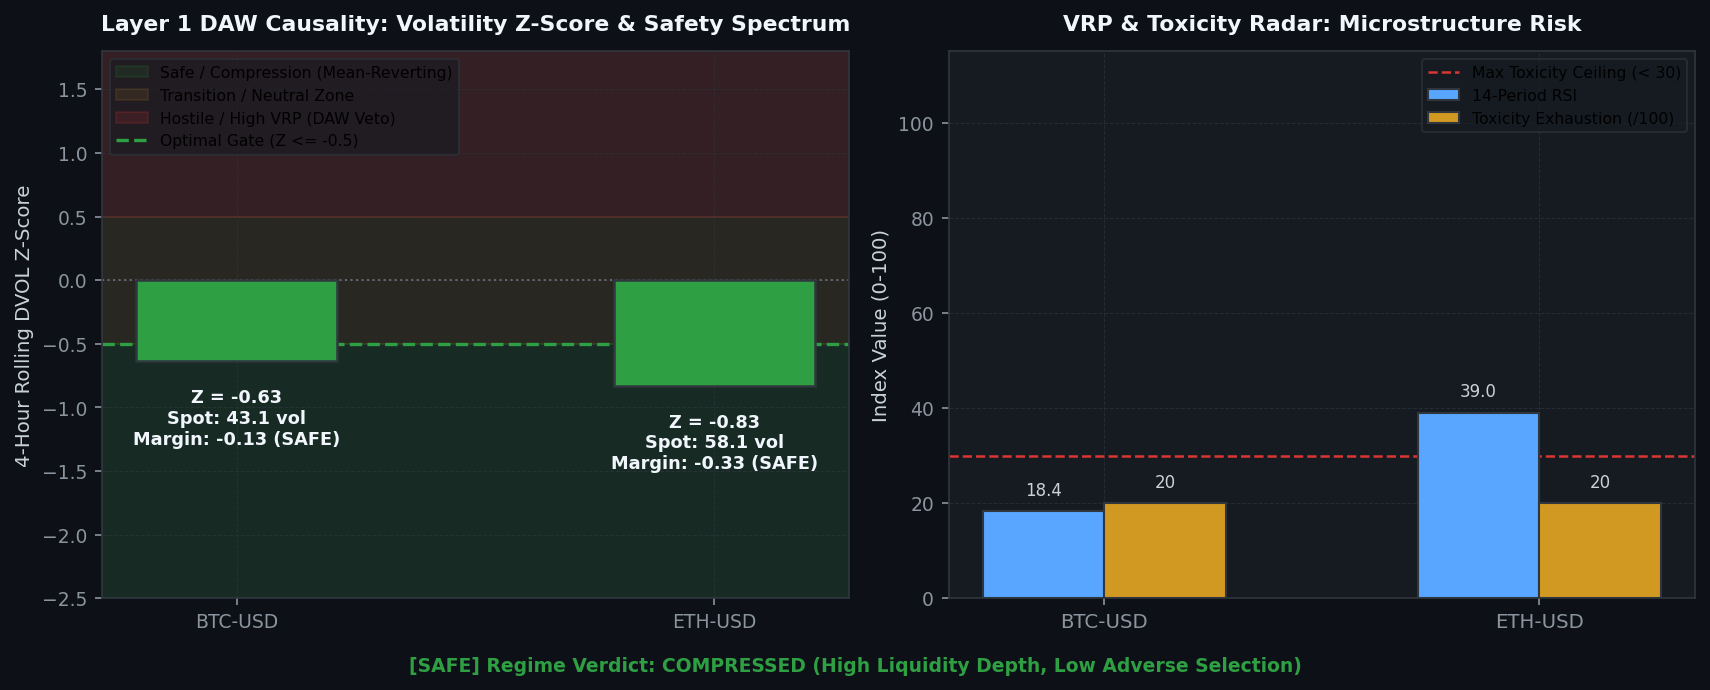
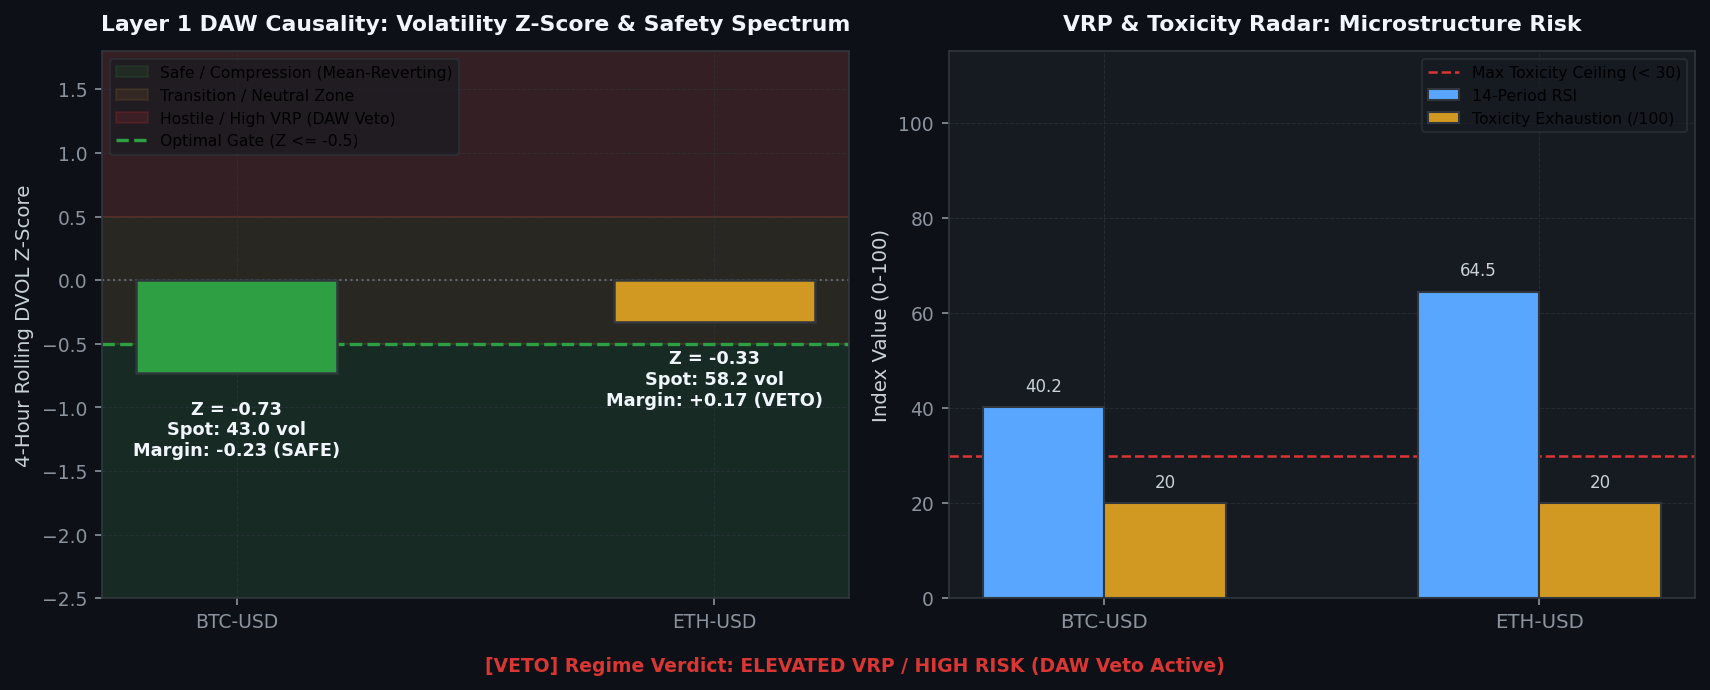
[coinbase] Hourly Status & Visual Intelligence Update: 2026-08-25 17:57:39

diff --git a/coinbase/data/hourly_status_report.md b/coinbase/data/hourly_status_report.md
@@ -3,7 +3,7 @@ layout: default
 ---
 
 # 🛡 Unified Trading System Hourly Status & Visual Intelligence
-> **Report Generated**: `2026-08-25 05:39:13 PM PDT (2026-08-26 00:39:13 UTC)`  
+> **Report Generated**: `2026-08-25 05:57:22 PM PDT (2026-08-26 00:57:22 UTC)`  
 > **System Health**: **🟡 DEGRADED / RESTRICTED** | **Win Rate**: `0.0%` | **Completed Trades**: `0`
 
 
@@ -15,13 +15,13 @@ Real-time Deribit implied volatility (DVOL) proxy tracking against mathematicall
 
 | Symbol | Proxy Oracle | Live Z-Score | Optimal Limit (YSP) | Safety Margin | Live VRP | Optimal VRP (YSP) | DAW Safety Verdict |
 | :--- | :--- | :--- | :--- | :--- | :--- | :--- | :--- |
-| `AVAX-USD` | DVOL_BTC | **-0.60** | **-0.50** | **-0.10** | **-4.85** | 5.0 | 🟢 SAFE |
-| `ETH-USD` | DVOL_ETH | **-0.79** | **-0.50** | **-0.29** | **+10.09** | 5.0 | 🔴 DAW VETOED |
-| `ADA-USD` | DVOL_BTC | **-0.60** | **-0.50** | **-0.10** | **-4.86** | 5.0 | 🟢 SAFE |
-| `DOGE-USD` | DVOL_BTC | **-0.60** | **-0.50** | **-0.10** | **-4.86** | 5.0 | 🟢 SAFE |
-| `BTC-USD` | DVOL_BTC | **-0.60** | **-0.50** | **-0.10** | **-4.85** | 5.0 | 🟢 SAFE |
-| `LINK-USD` | DVOL_BTC | **-0.60** | **-0.50** | **-0.10** | **-4.85** | 5.0 | 🟢 SAFE |
-| `SOL-USD` | DVOL_BTC | **-0.60** | **-0.50** | **-0.10** | **-4.86** | 5.0 | 🟢 SAFE |
+| `AVAX-USD` | DVOL_BTC | **-0.73** | **-0.50** | **-0.23** | **-4.85** | 5.0 | 🟢 SAFE |
+| `ETH-USD` | DVOL_ETH | **-0.33** | **-0.50** | **+0.17** | **+10.11** | 5.0 | 🔴 DAW VETOED |
+| `ADA-USD` | DVOL_BTC | **-0.73** | **-0.50** | **-0.23** | **-4.86** | 5.0 | 🟢 SAFE |
+| `DOGE-USD` | DVOL_BTC | **-0.73** | **-0.50** | **-0.23** | **-4.86** | 5.0 | 🟢 SAFE |
+| `BTC-USD` | DVOL_BTC | **-0.73** | **-0.50** | **-0.23** | **-4.85** | 5.0 | 🟢 SAFE |
+| `LINK-USD` | DVOL_BTC | **-0.73** | **-0.50** | **-0.23** | **-4.85** | 5.0 | 🟢 SAFE |
+| `SOL-USD` | DVOL_BTC | **-0.73** | **-0.50** | **-0.23** | **-4.86** | 5.0 | 🟢 SAFE |
 
 
 
@@ -37,16 +37,16 @@ We hereby certify that the mission-critical algorithmic data assets uploaded by 
 
 | Status | Data Asset | Freshness / State | Details / Timestamp |
 | :---: | :--- | :--- | :--- |
-| ✅ | **Go-List JSON** | Fresh (8.62h old) | 08-25 09:02 |
-| ✅ | **TimesFM Forecasts** | Fresh (1.62h old) | 08-25 16:02 |
-| ❌ | **Holding Times config** | STALE! (104.6h old) | Limit 46.7h |
-| ✅ | **BTC DVOL Cache** | Fresh (0.00h old) | 08-25 17:39 |
-| ✅ | **ETH DVOL Cache** | Fresh (0.01h old) | 08-25 17:38 |
-| ✅ | **Live Trading Telemetry** | Fresh (0.03h old) | 08-25 17:37 |
+| ✅ | **Go-List JSON** | Fresh (8.92h old) | 08-25 09:02 |
+| ✅ | **TimesFM Forecasts** | Fresh (1.92h old) | 08-25 16:02 |
+| ❌ | **Holding Times config** | STALE! (104.9h old) | Limit 47.0h |
+| ✅ | **BTC DVOL Cache** | Fresh (0.00h old) | 08-25 17:57 |
+| ✅ | **ETH DVOL Cache** | Fresh (0.00h old) | 08-25 17:57 |
+| ❌ | **Live Trading Telemetry** | STALE! (0.3h old) | Limit 0.1h |
 
 <br>
 
-> **Utilization Certification**: ✅ **CERTIFIED.** The Guardian Watchdog is ONLINE and EC2 traders are actively querying the freshest MLOps data artifacts (Found 2231 recent read events).
+> **Utilization Certification**: ✅ **CERTIFIED.** The Guardian Watchdog is ONLINE and EC2 traders are actively querying the freshest MLOps data artifacts (Found 1388 recent read events).
 
 
 ---
@@ -55,7 +55,7 @@ Layer-by-layer tick evaluation waterfall and asset-specific performance tracking
 
 | Funnel Filter Layer | Total Rejections | % of Rejections |
 | :--- | :--- | :--- |
-| Tier 1: Macro Volatility Tensor Gate (Omega_macro) | `4,636` | **100.0%** |
+| Tier 1: Macro Volatility Tensor Gate (Omega_macro) | `4,689` | **100.0%** |
 | Tier 2: Unified Transport & Directional Engine | `0` | **0.0%** |
 | Tier 3: Continuous Hawkes-SFGK Pricer (HAS-Pricer) | `0` | **0.0%** |
 | System: Asset Cooldown Active | `0` | **0.0%** |
@@ -80,18 +80,18 @@ Live balance sheet and open maker liquidity positions from Coinbase CDP.
 | Product | Side | Limit Price | Order ID |
 | :--- | :--- | :--- | :--- |
 | `ACH-USD` | SELL | 0.005507 | `a0d2e243-42b4-4df5-bd23-118f45998df8` |
-| `ETH-USD` | SELL | 2503.11 | `b8603d38-2b4a-481a-803a-19ecf1beb593` |
-| `SOL-USD` | SELL | 100.69 | `8dcd9986-8156-403f-81ee-b1dc96d2b3c7` |
-| `LINK-USD` | SELL | 11.886 | `e550166a-4422-4a46-9c78-7db264061242` |
-| `ADA-USD` | SELL | 0.22031 | `d968b8ef-1180-4f05-bc11-01087aa5d99a` |
 | `ADA-USD` | SELL | 0.22853 | `2beee26b-f88c-4929-8625-ec618ae9e32d` |
+| `LINK-USD` | SELL | 11.886 | `e550166a-4422-4a46-9c78-7db264061242` |
 | `AVAX-USD` | SELL | 7.708 | `7c4cd0f2-8347-4458-a3a5-8619324273a2` |
 | `ADA-USD` | SELL | 0.22818 | `7af97780-5e33-47e5-9caf-12bec2c8a7d5` |
 | `ADA-USD` | SELL | 0.22503 | `eb72afdd-a3d7-40b8-9598-30b5ca2b74ef` |
 | `DOGE-USD` | SELL | 0.09237 | `3160f212-8ff6-4b19-a291-73c17cdf2a97` |
 | `AVAX-USD` | SELL | 7.625 | `c14c3c5a-f35f-4043-a616-ea4c20cfa9f2` |
+| `ETH-USD` | SELL | 2503.11 | `b8603d38-2b4a-481a-803a-19ecf1beb593` |
+| `SOL-USD` | SELL | 100.69 | `8dcd9986-8156-403f-81ee-b1dc96d2b3c7` |
 | `BTC-USD` | SELL | 79882.66 | `560ee9a9-d0c6-4242-b2d2-c0d7ddc7393f` |
 | `DOGE-USD` | SELL | 0.09132 | `2f2ed9b7-454b-4377-9672-5f4c78c84b1e` |
+| `ADA-USD` | SELL | 0.22031 | `d968b8ef-1180-4f05-bc11-01087aa5d99a` |
 | `AVAX-USD` | SELL | 7.558 | `fc9234ee-6ef0-4ba3-a44b-d86922f91144` |
 
 
@@ -100,14 +100,14 @@ Live balance sheet and open maker liquidity positions from Coinbase CDP.
 ## 4. 🤖 Foundation Model MLOps & Pipeline Orchestration
 Weekly Algorithmic Mega Cap selection, Zero-shot multi-step forward return forecasts, and VSTEF parameter grid search status.
 
-- **TimesFM Forecast DB**: 🟢 Updated 1.6h ago (2026-08-25 04:02 PM PDT)
+- **TimesFM Forecast DB**: 🟢 Updated 1.9h ago (2026-08-25 04:02 PM PDT)
 - **Last Weekly VSTEF Optimization**: `2026-08-05 09:22:38 AM PDT`
-- **Next Scheduled VSTEF Run**: `2026-08-30 07:00:00 PM PDT (Monday 02:00 UTC)` (Countdown: **121.3h (5d 1h 20m)**)
+- **Next Scheduled VSTEF Run**: `2026-08-30 07:00:00 PM PDT (Monday 02:00 UTC)` (Countdown: **121.0h (5d 1h 2m)**)
 - **Promoted Parameter Gates**: $Z_{DVOL} \le -0.5$ | Holding Horizon $= 12\text{h}$
 
 ### Algorithmic Mega Cap Selection
 - **Last Run (Confirmation)**: `2026-08-25 09:02:14 AM PDT`
-- **Next Scheduled Run**: `2026-08-30 06:00:00 PM PDT (Monday 01:00 UTC)` (Countdown: **120.3h (5d 0h 20m)**)
+- **Next Scheduled Run**: `2026-08-30 06:00:00 PM PDT (Monday 01:00 UTC)` (Countdown: **120.0h (5d 0h 2m)**)
 - **Selected Mega Cap Universe**: `BTC, BCH, AVAX, ETH, ALGO, ADA, LTC, DOGE, AAVE, LINK, DOT, HBAR`
 
 
@@ -121,8 +121,8 @@ Visualizing the impact of the VSTEF (Volatility-Synchronized Stop-Tightening Exe
 ## 5. 🖥 Multi-Node Infrastructure & Watchdog Matrix
 ```text
 ================================================================================
-   🛡  SFGK FUNNEL GUARDIAN WATCHDOG (HFT ONLY) |  12:39:12 AM
-   CPU:   3.4%  |  MEM:   8.3% (14.1GB / 15.4GB Free)
+   🛡  SFGK FUNNEL GUARDIAN WATCHDOG (HFT ONLY) |  12:57:19 AM
+   CPU:   9.0%  |  MEM:   8.4% (14.1GB / 15.4GB Free)
 ================================================================================
 SERVICE              | PID      | STATUS          | RESTARTS | INFO
 --------------------------------------------------------------------------------
@@ -130,7 +130,7 @@ L3 Consumer          | 3940517  | RUNNING         | -        | Continuous Websoc
 MAO Daemon           | 3940681  | RUNNING         | -        | Oracle Yield Analysis
 Stable Farmer        | 3940683  | RUNNING         | -        | Volume Farmer
 Trader AVAX-USD      | 3982234  | RUNNING         | 127      | Evaluating Funnel/Polling Order
-Trader ETH-USD       | 3983216  | RUNNING         | 142      | Evaluating Funnel/Polling Order
+Trader ETH-USD       | 3997401  | RUNNING         | 195      | Evaluating Funnel/Polling Order
 Trader ADA-USD       | 3982383  | RUNNING         | 127      | Evaluating Funnel/Polling Order
 Trader DOGE-USD      | 3982384  | RUNNING         | 127      | Evaluating Funnel/Polling Order
 Trader BTC-USD       | 3982235  | RUNNING         | 129      | Evaluating Funnel/Polling Order
@@ -153,8 +153,6 @@ Trader LINK-USD      | 3982236  | RUNNING         | 128      | Evaluating Funnel
 <summary><b>Click to expand raw incident logs</b></summary>
 
 ```text
-logs/watchdog_Trader_ADA_USD.log:2026-08-25 21:08:07 [ERROR] [async_sfgk_trader.py:perform_trade_cycle:1006] [ADA-USD] Error polling sell order / ticker: name 'price_buffer' is not defined
-logs/watchdog_Trader_ADA_USD.log:2026-08-25 21:08:12 [ERROR] [async_sfgk_trader.py:perform_trade_cycle:1006] [ADA-USD] Error polling sell order / ticker: name 'price_buffer' is not defined
 logs/watchdog_Trader_ADA_USD.log:2026-08-25 21:08:18 [ERROR] [async_sfgk_trader.py:perform_trade_cycle:1006] [ADA-USD] Error polling sell order / ticker: name 'price_buffer' is not defined
 logs/watchdog_Trader_ADA_USD.log:2026-08-25 21:08:23 [ERROR] [async_sfgk_trader.py:perform_trade_cycle:1006] [ADA-USD] Error polling sell order / ticker: name 'price_buffer' is not defined
 logs/watchdog_Trader_ADA_USD.log:2026-08-25 21:08:28 [ERROR] [async_sfgk_trader.py:perform_trade_cycle:1006] [ADA-USD] Error polling sell order / ticker: name 'price_buffer' is not defined
@@ -193,6 +191,8 @@ logs/watchdog_Trader_BTC_USD.log:2026-08-25 20:08:21 [WARNING] [async_sfgk_trade
 logs/watchdog_Trader_DOGE_USD.log:2026-08-25 20:08:29 [WARNING] [async_sfgk_trader.py:_safe_requests_get:261] [DOGE-USD] requests.get Exception (Attempt 1/5). Sleeping 1.25s... | Error: HTTPSConnectionPool(host='api.exchange.coinbase.com', port=443):
 logs/watchdog_Trader_LINK_USD.log:2026-08-25 16:44:16 [WARNING] [async_sfgk_trader.py:_safe_requests_get:261] [LINK-USD] requests.get Exception (Attempt 1/5). Sleeping 1.34s... | Error: HTTPSConnectionPool(host='api.exchange.coinbase.com', port=443):
 logs/watchdog_Trader_SOL_USD.log:2026-08-25 20:08:31 [WARNING] [async_sfgk_trader.py:_safe_requests_get:261] [SOL-USD] requests.get Exception (Attempt 1/5). Sleeping 1.34s... | Error: HTTPSConnectionPool(host='api.exchange.coinbase.com', port=443): R
+logs/watchdog_Trader_SOL_USD.log:2026-08-26 00:41:13 [WARNING] [async_sfgk_trader.py:_safe_requests_get:261] [SOL-USD] requests.get Exception (Attempt 1/5). Sleeping 1.39s... | Error: HTTPSConnectionPool(host='api.exchange.coinbase.com', port=443): R
+logs/watchdog_Trader_SOL_USD.log:2026-08-26 00:48:44 [WARNING] [async_sfgk_trader.py:_safe_requests_get:261] [SOL-USD] requests.get Exception (Attempt 1/5). Sleeping 1.13s... | Error: HTTPSConnectionPool(host='api.exchange.coinbase.com', port=443): R
 ```
 </details>
 

diff --git a/coinbase/data/visual_intelligence.md b/coinbase/data/visual_intelligence.md
@@ -4,7 +4,7 @@ title: Visual Intelligence Gallery
 ---
 
 # 📈 Visual Intelligence Gallery
-> **Generated:** `2026-08-25 17:39:30`
+> **Generated:** `2026-08-25 17:57:39`
 > **[Return to Main Status Report](./hourly_status_report.md)**
 
 This page visualizes the internal states, market profiles, and decision criteria of the active **3-Tier Fused Decision Engine** across all layers.
